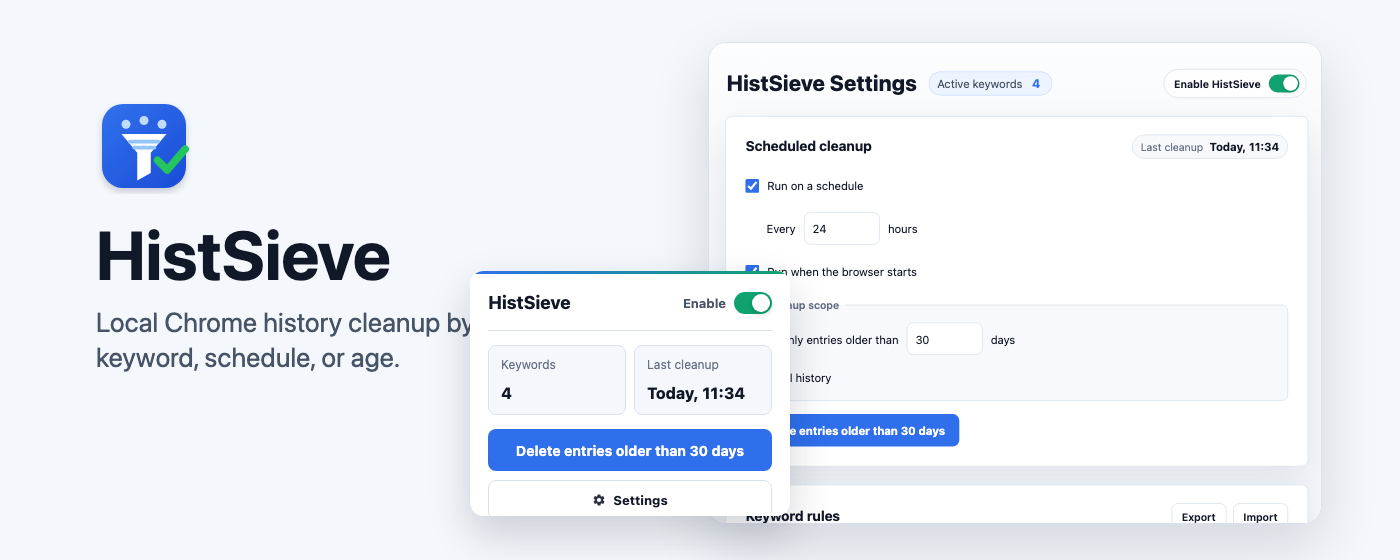
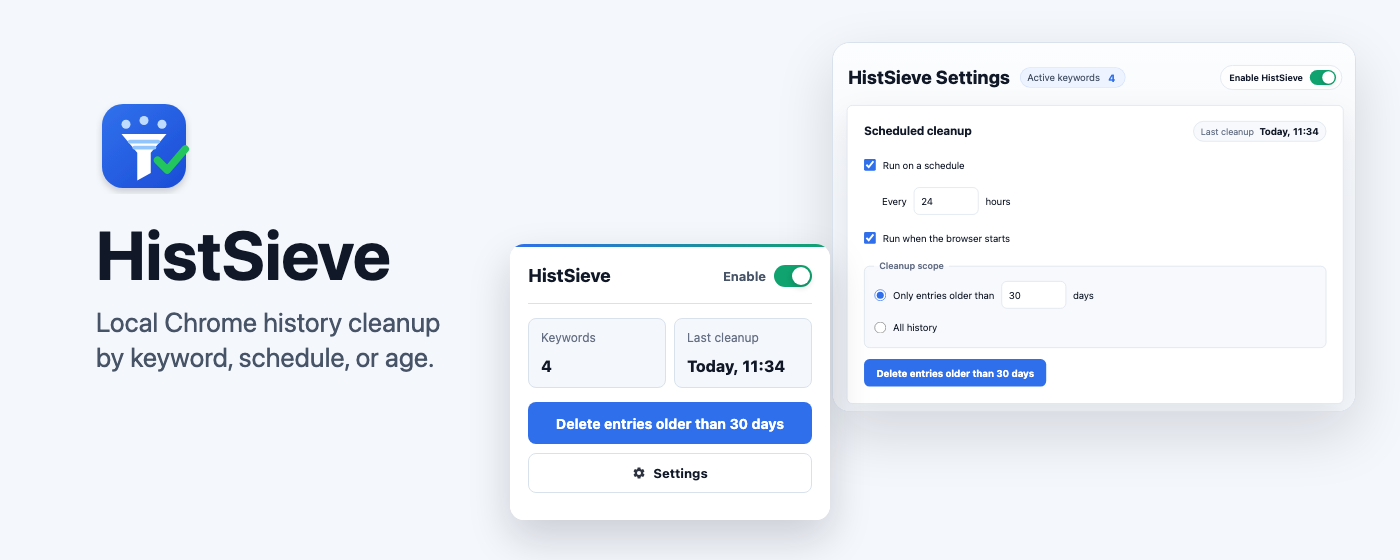
fix: polish store release assets

diff --git a/README.md b/README.md
@@ -50,8 +50,7 @@ pnpm build:release
 `pnpm assets:store` renders product screenshots with local Chrome and uses `sips`
 for icon PNGs. Set `CHROME_PATH` if Chrome is not installed in the default location.
 
-The upload package is generated under `release/`. Store listing copy and submission
-notes are in [docs/chrome-web-store-listing.md](./docs/chrome-web-store-listing.md).
+The upload package is generated under `release/`.
 
 ## Manual Test Checklist
 